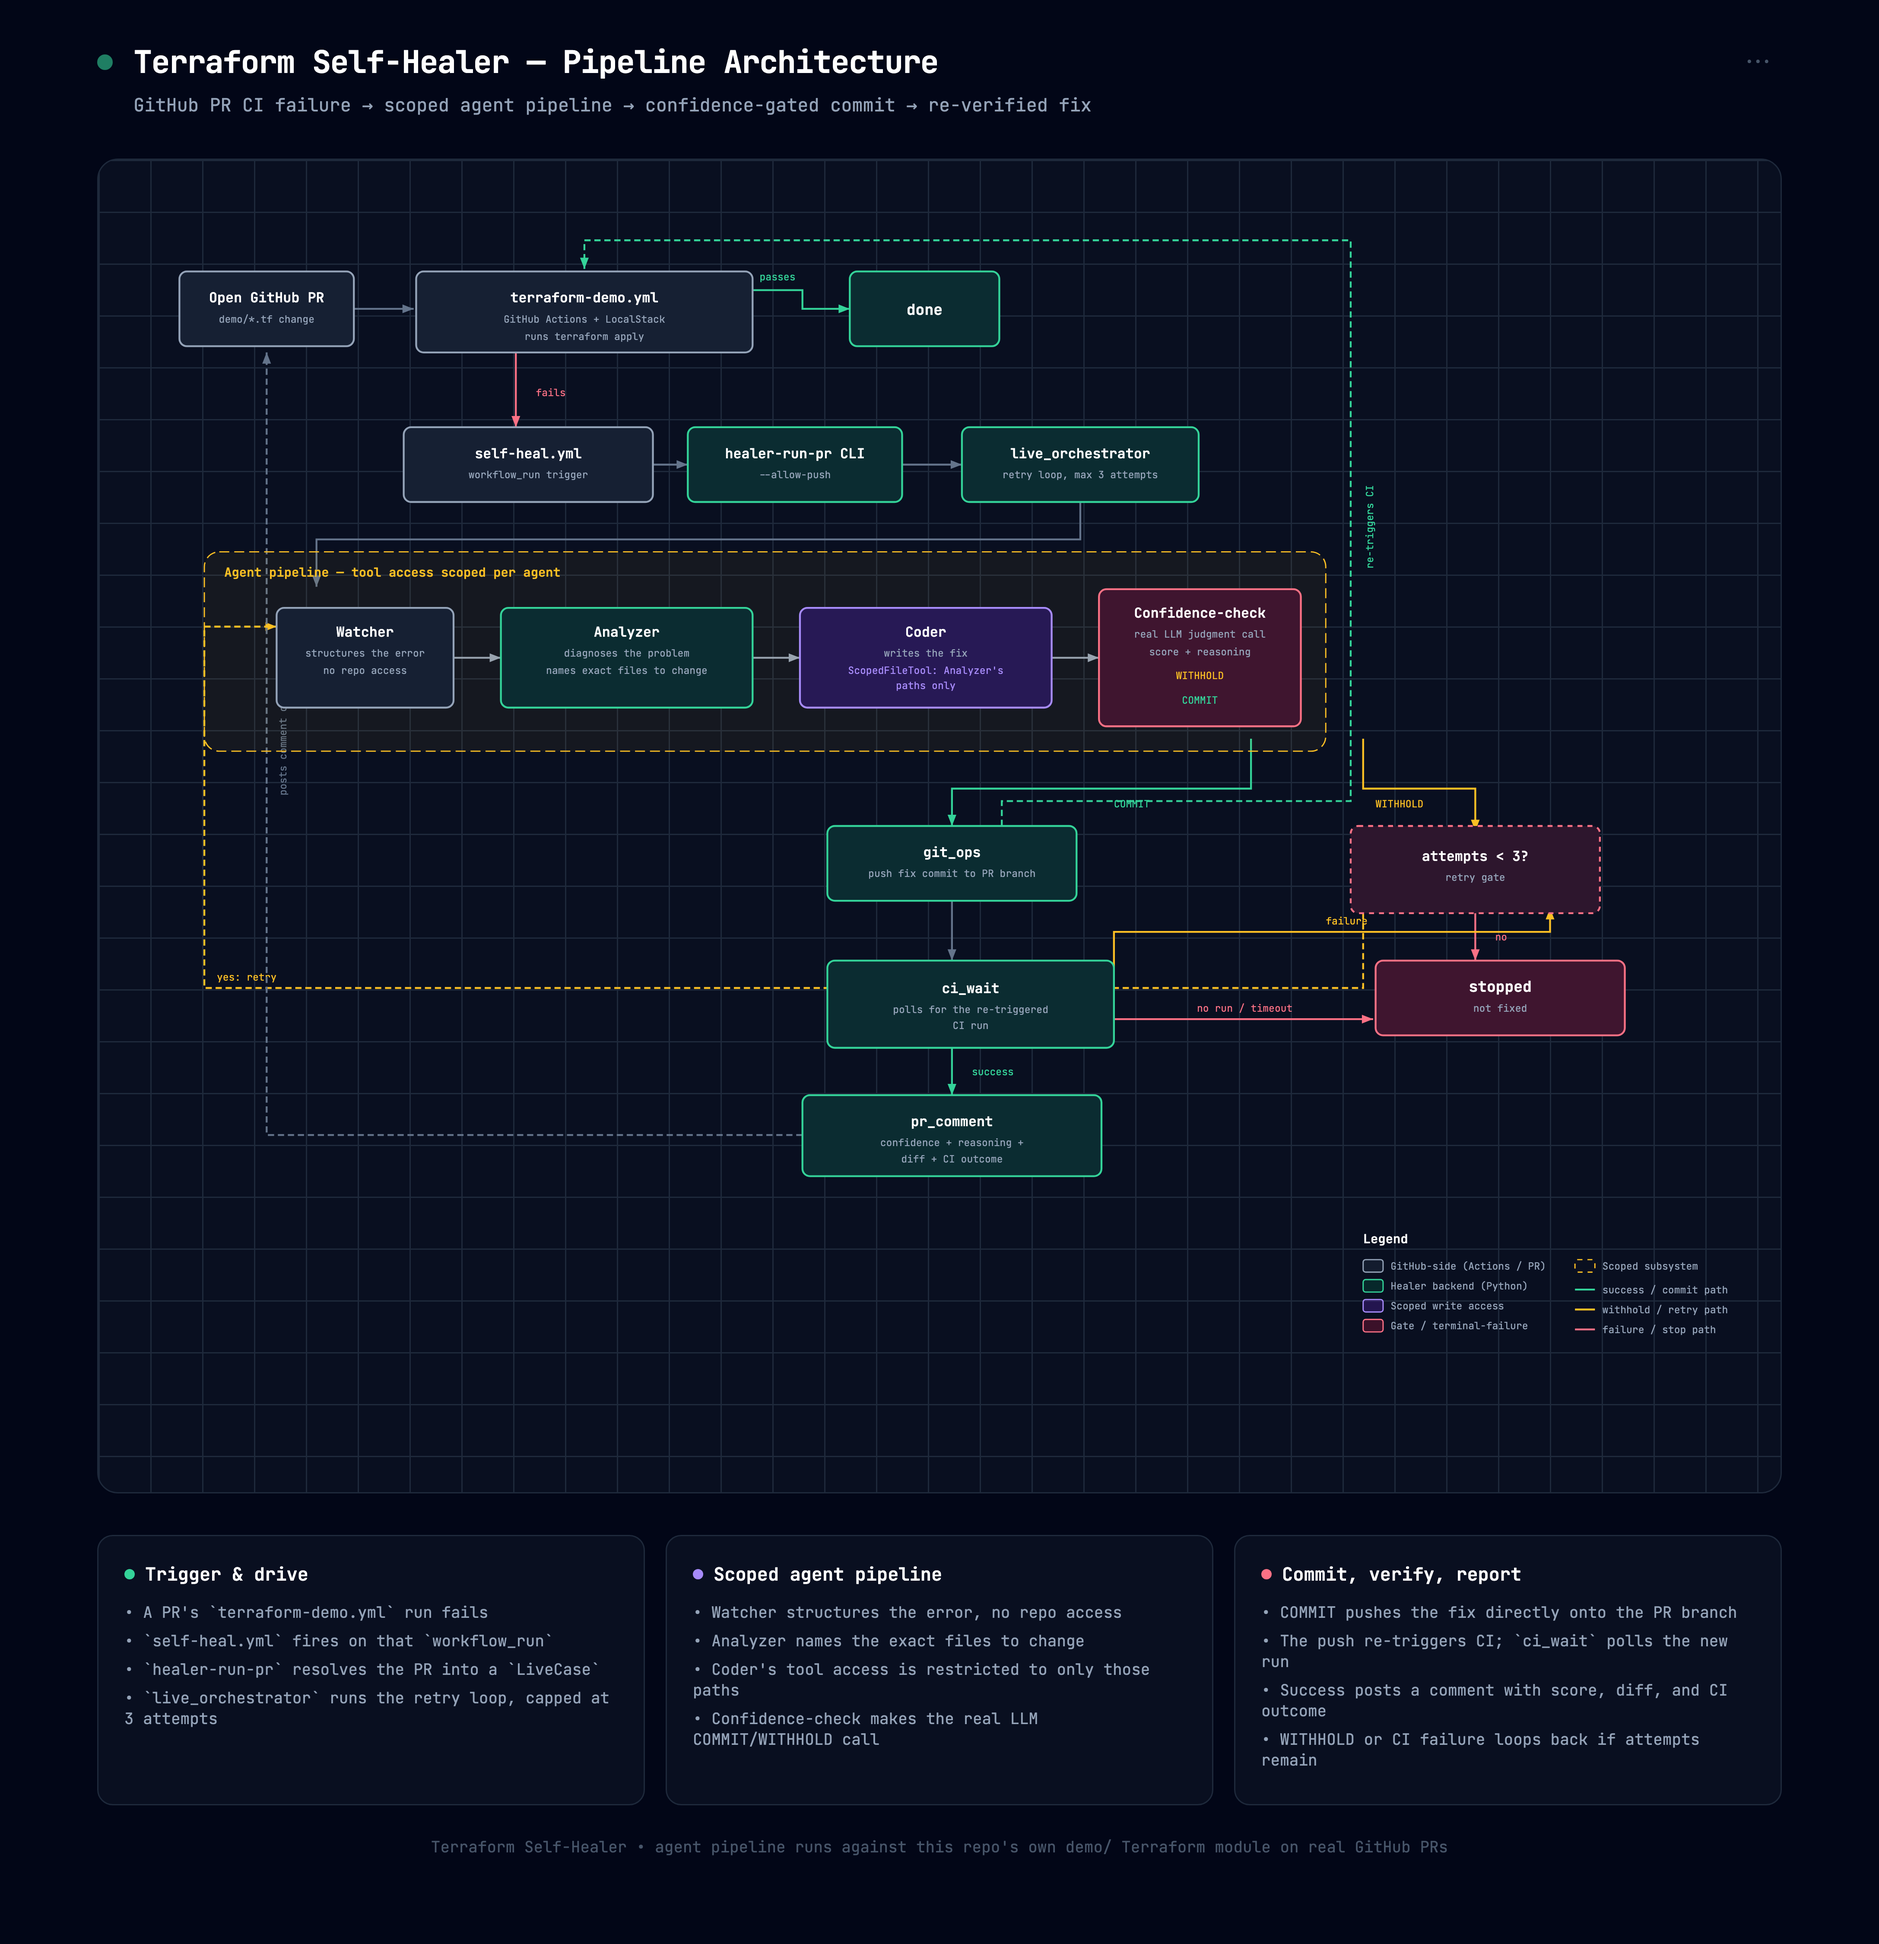
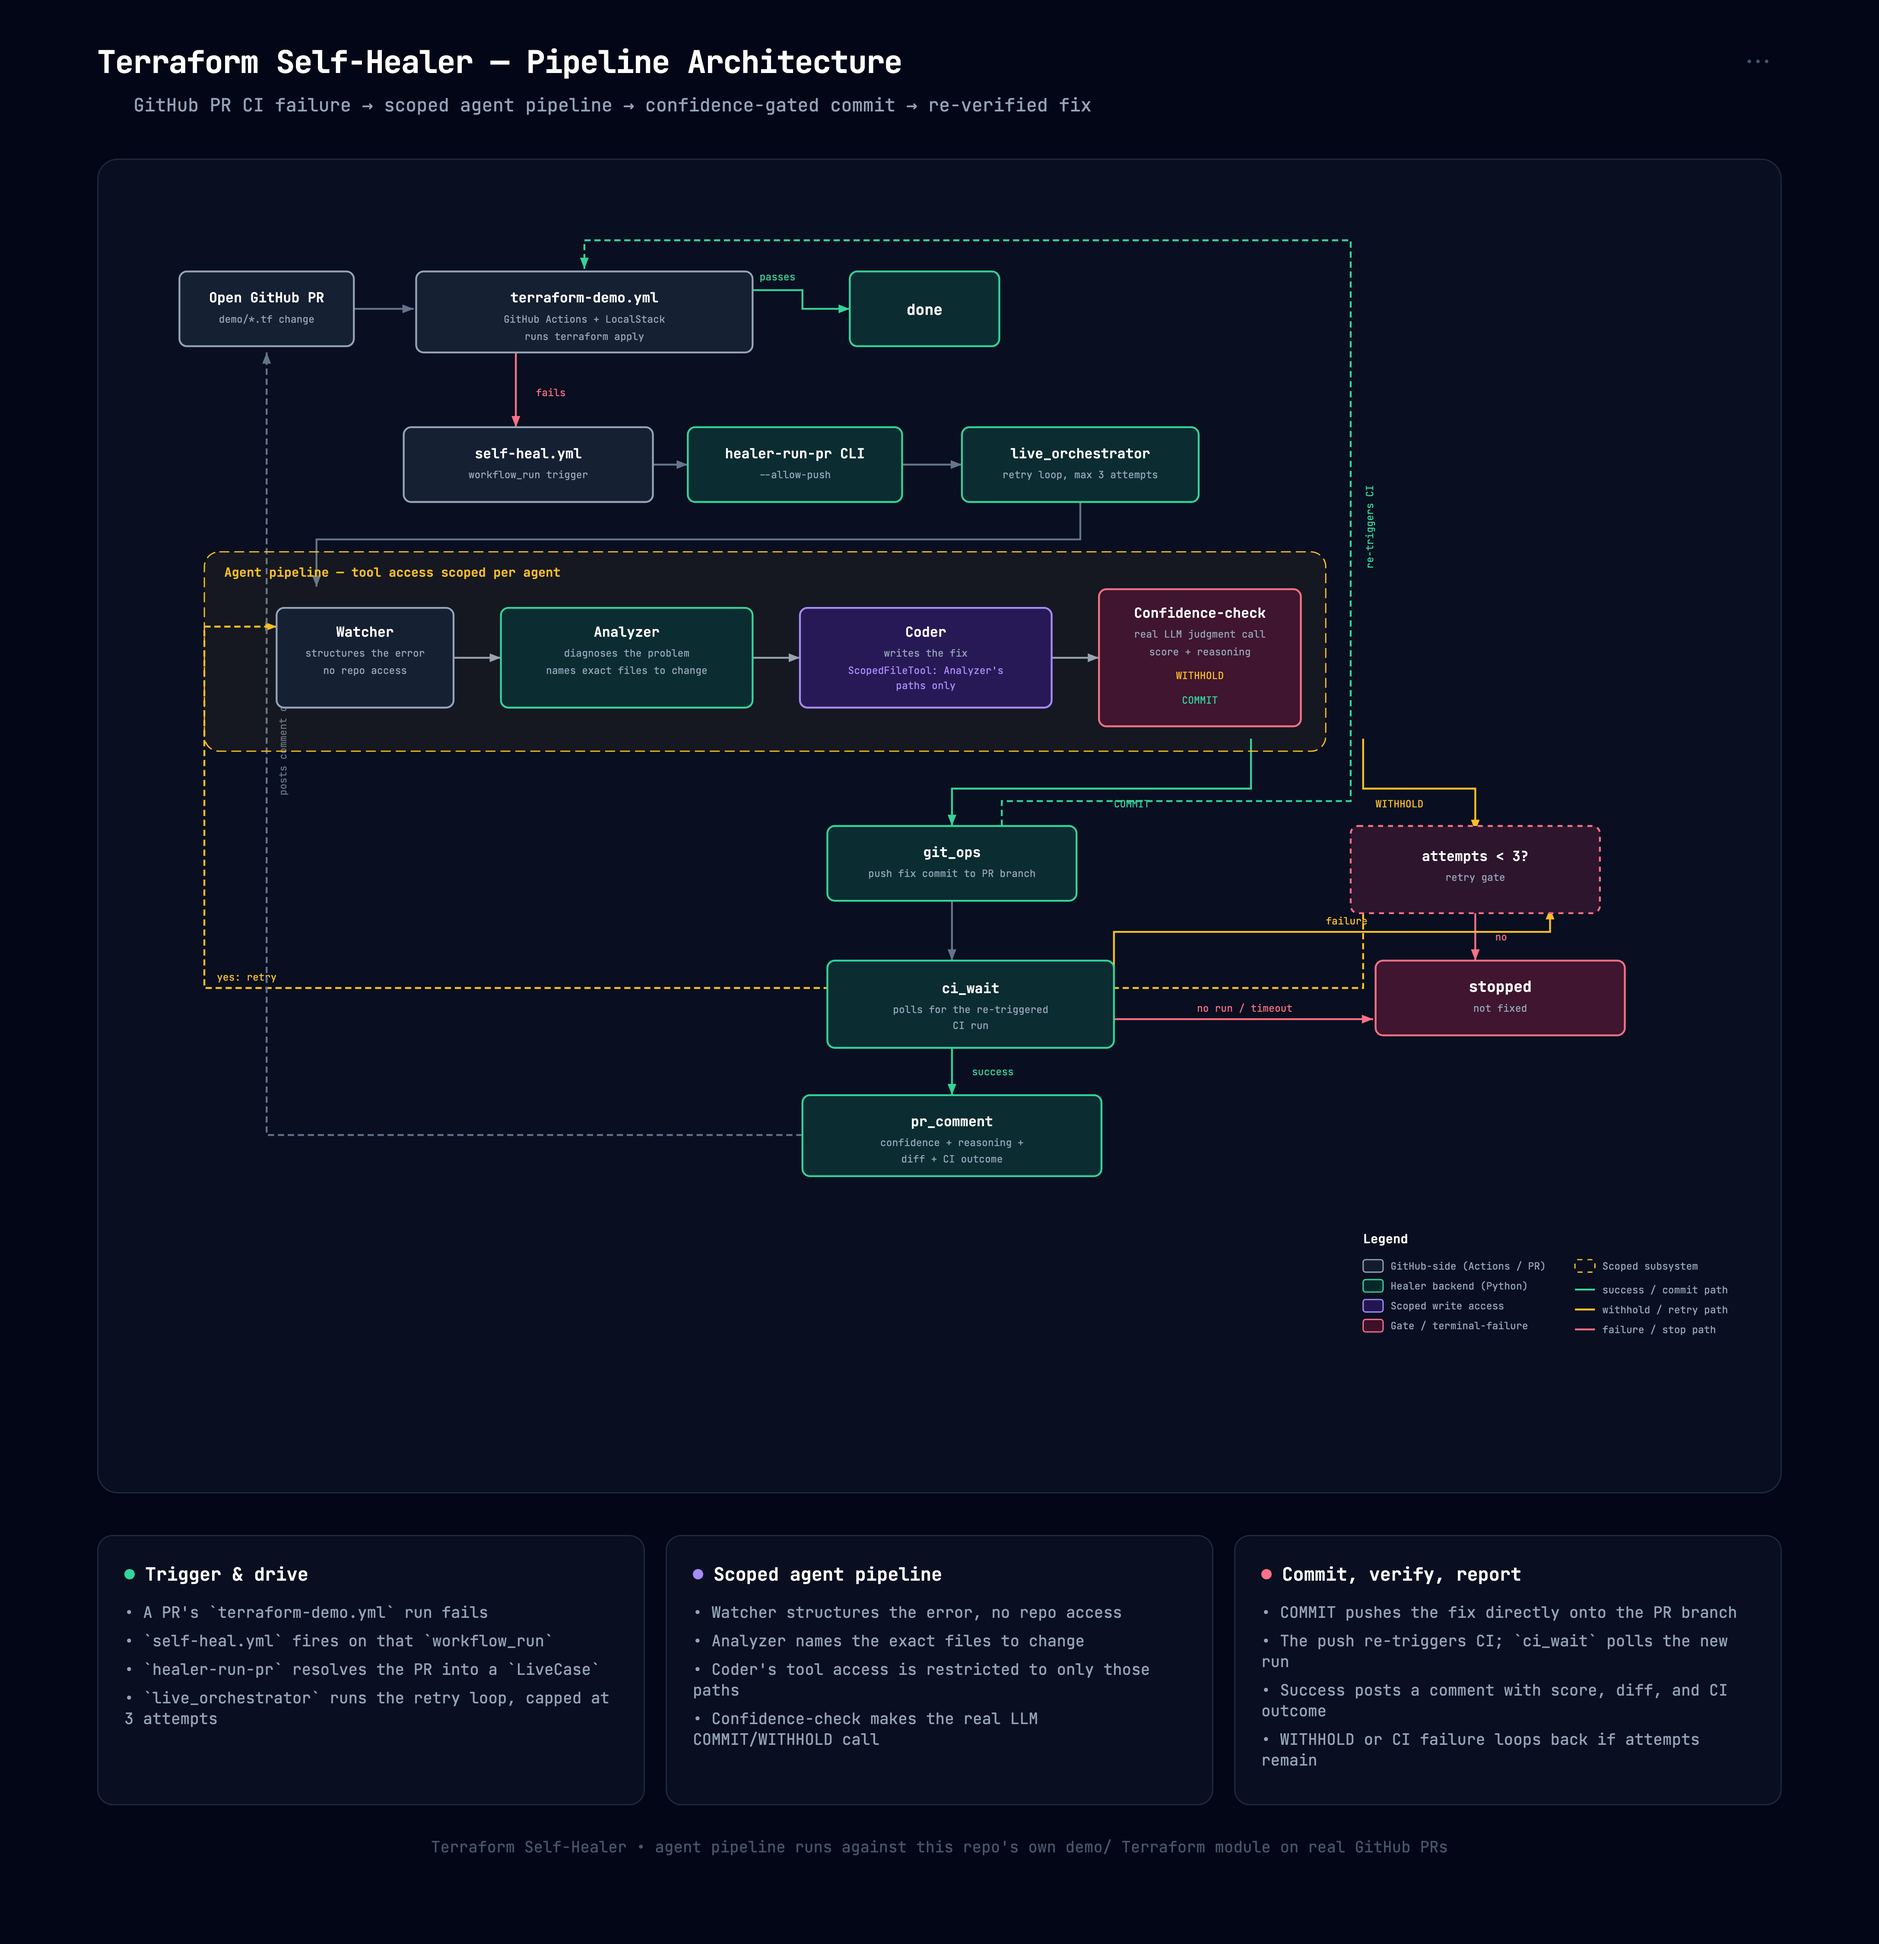
Drop pulsing dot and grid background from architecture diagram
Both are recognizable "AI-generated dashboard" tells independent of
color choice. Flat background reads as more deliberate; the static
title without an animated indicator matches the skill's updated
defaults.

Claude-Session: https://claude.ai/code/session_01FNUGUzDNtz4L15Luf5DdZ6

diff --git a/docs/diagrams/system-diagram.html b/docs/diagrams/system-diagram.html
@@ -29,26 +29,12 @@
       margin-bottom: 0.5rem;
     }
 
-    .pulse-dot {
-      width: 12px;
-      height: 12px;
-      background: #34d399;
-      border-radius: 50%;
-      animation: pulse 2s infinite;
-    }
-
-    @keyframes pulse { 0%, 100% { opacity: 1; } 50% { opacity: 0.5; } }
-
     h1 { font-size: 1.5rem; font-weight: 700; letter-spacing: -0.025em; }
 
     .subtitle { color: #94a3b8; font-size: 0.875rem; margin-left: 1.75rem; }
 
     .diagram-container {
       background-color: rgba(15, 23, 42, 0.5);
-      background-image:
-        linear-gradient(#1e293b 1px, transparent 1px),
-        linear-gradient(90deg, #1e293b 1px, transparent 1px);
-      background-size: 40px 40px;
       border-radius: 1rem;
       border: 1px solid #1e293b;
       padding: 1.5rem;
@@ -145,7 +131,6 @@
   <div class="container" id="report-container">
     <div class="header">
       <div class="header-row">
-        <div class="pulse-dot"></div>
         <h1>Terraform Self-Healer — Pipeline Architecture</h1>
         <div class="toolbar">
           <div class="toolbar-actions">
